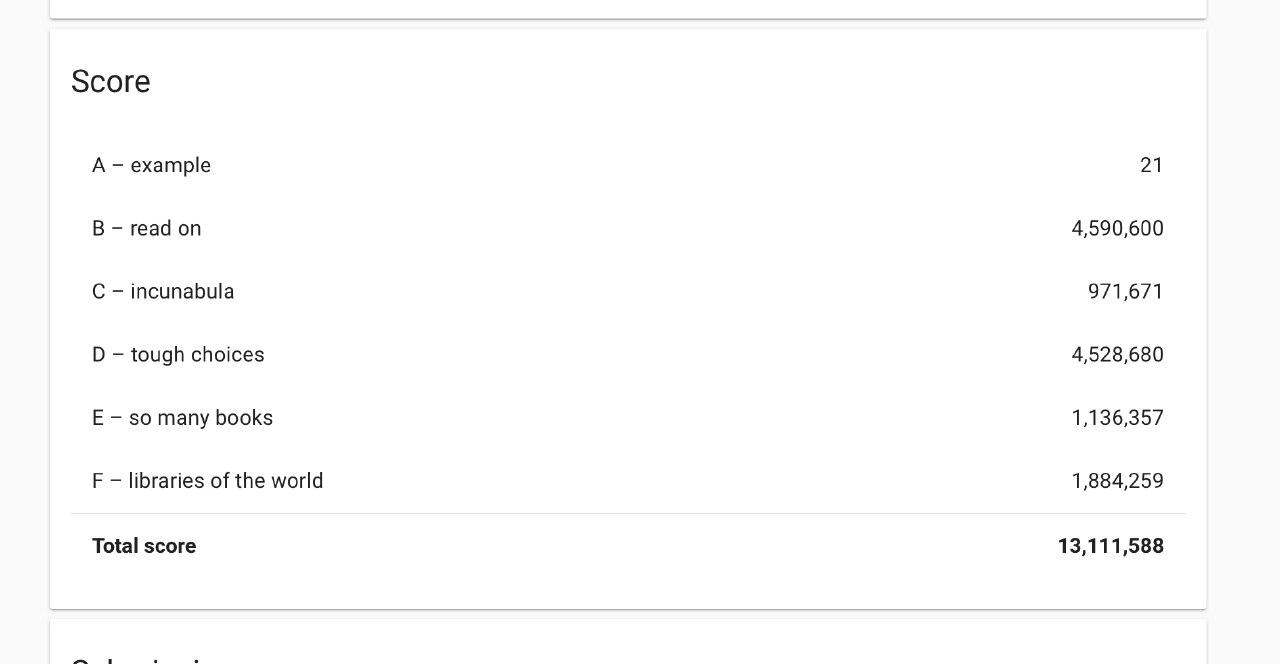
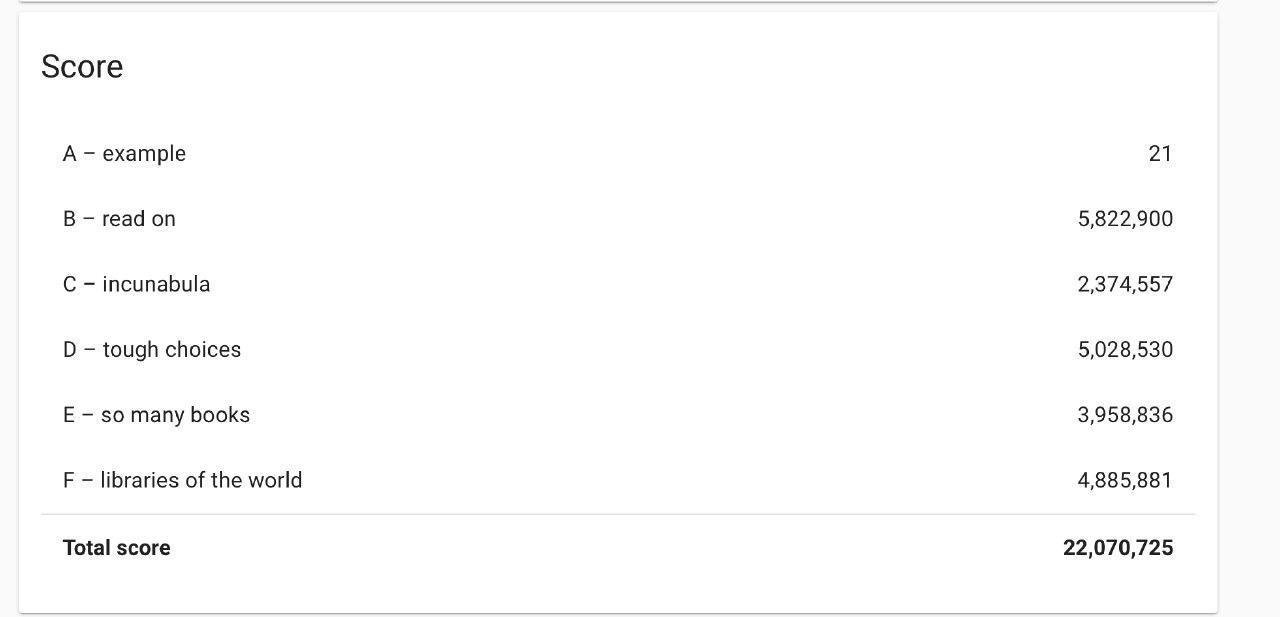
Second commit

diff --git a/main.py b/main.py
@@ -1,22 +1,15 @@
 def get_input(file):
     f = open(file, "r")
     lines = f.readlines()
-    numberOfBooks = int(lines[0].split()[0])
-    numberOfLibraries = int(lines[0].split()[1])
-    numberOfDays = int(lines[0].split()[2])
-    bookScores = list(map(int, lines[1].split()))
+    books_total = int(lines[0].split()[0])
+    libraries_total = int(lines[0].split()[1])
+    days_total = int(lines[0].split()[2])
+    scores_books = list(map(int, lines[1].split()))
 
-    inp_books = []
-    book_id = 0
-    for b in range(len(bookScores)):
-        bookk = {"book_id": book_id, "score": bookScores[b]}
-        inp_books.append(bookk)
-        book_id += 1
-
-    inp_libraries = []
+    inp_libraries = {}
     lib_id = 0
     for i in range(2, len(lines)):
-        if i % 2 == 0:  # it is a library description
+        if i % 2 == 0:  # even lines contain library description
             lib = {}
             line = lines[i].split()
             if len(line) == 0:
@@ -25,22 +18,13 @@ def get_input(file):
             lib["total_books"] = int(line[0])
             lib["signup_days"] = int(line[1])
             lib["per_day"] = int(line[2])
-            line = lines[i+1].split()
-            lib_books = []
-            for b in line:
-                bookk = {"book_id": int(b), "score": bookScores[int(b)]}
-                lib_books.append(bookk)
-            lib["books"] = lib_books
-            inp_libraries.append(lib)
+            lib["priority"] = 0.00
+            lib["books"] = lines[i+1].split()
+            lib["scanned_books"] = list()
+            inp_libraries[str(lib_id)] = lib
             lib_id += 1
     f.close()
-
-    inp_books = sorted(inp_books, key=lambda x: x["score"], reverse=True)
-    for l in range(len(inp_libraries)):
-        bs = sorted(inp_libraries[l]["books"], key=lambda x: x["score"], reverse=True)
-        inp_libraries[l]["books"] = bs
-
-    return numberOfBooks, numberOfLibraries, numberOfDays, inp_books, inp_libraries
+    return books_total, libraries_total, days_total, scores_books, inp_libraries
 
 
 def write_output(file):
@@ -48,50 +32,63 @@ def write_output(file):
     scanned_libraries = len(library_order)
     f.write(str(scanned_libraries) + "\n")
     for lib in library_order:
-        books_total = len(lib["scanned_books"])
-        f.write(str(lib["lib_id"]) + " " + str(books_total) + "\n")
+        f.write(str(lib["lib_id"]) + " " + str(len(lib["scanned_books"])) + "\n")
         for x in lib["scanned_books"]:
-            f.write(str(x["book_id"]) + " ")
+            f.write(str(x + " "))
         f.write("\n")
     f.close()
 
 
-def calculate_priority(lib):
-    s = 0
-    for book in lib["books"]:
-        if book not in scanned_books:  # unique books
-            s = s + book["score"]
-        lib["priority"] = s * (remaining_days - lib["signup_days"]) / lib["per_day"]
+def update_priorities(libs):
+    for k in libs:
+        s = 0
+        r = (remaining_days - libs[k]["signup_days"])* libs[k]["per_day"]
+        for book in libs[k]["books"]:
+            if book not in scanned_books:  # unique books
+                s = s + books_scores[int(book)]
+                r-=1
+            if (r==0):
+                break
+        if (remaining_days - libs[k]["signup_days"]>0):
+            libs[k]["priority"] = s *(remaining_days - libs[k]["signup_days"])
+
+def find_max_priority():
+    max_priority = 0
+    m=0
+    for k in libraries:
+        if libraries[k]["priority"] > max_priority:
+            max_priority = libraries[k]["priority"]
+            m = k
+    return m
 
 
-total_books, total_libraries, total_days, books, libraries = get_input("c_incunabula.txt")
+total_books, total_libraries, total_days, books_scores, libraries = get_input("/home/akzhol/Documents/hashcode2020/e_so_many_books.txt")
 library_order = []
-scanned_books = []
+scanned_books = set()  # just a set
 remaining_days = total_days
 
-while remaining_days > 0 and not len(libraries) == 0:
-    for library in libraries:
-        calculate_priority(library)
+for i in range(total_libraries):
+    libraries[str(i)]["books"].sort(key=lambda x: books_scores[int(x)], reverse=True)
 
-    max_priority_library = libraries[0]
-    max_priority_library_index = 0
-    for ind in range(len(libraries)):
-        if libraries[ind]["priority"] > max_priority_library["priority"]:
-            max_priority_library_index = ind
-    
-    remaining_days = remaining_days - libraries[max_priority_library_index]["signup_days"]
-    n = remaining_days * libraries[max_priority_library_index]["per_day"]
-    libraries[max_priority_library_index]["scanned_books"] = []
+while remaining_days > 0 and not len(libraries) == 0:
+    update_priorities(libraries)
+    max_index = str(find_max_priority())
+    remaining_days -= libraries[max_index]["signup_days"]
+    n = remaining_days * libraries[max_index]["per_day"]
     index = 0
-    while n > 0 and index < len(libraries[max_priority_library_index]["books"]):
-        book = libraries[max_priority_library_index]["books"][index]
+    empty = True
+    while n > 0 and index < len(libraries[max_index]["books"]):
+        book = libraries[max_index]["books"][index]
         if book not in scanned_books:
-            scanned_books.append(book)
-            libraries[max_priority_library_index]["scanned_books"].append(book)
+            scanned_books.add(book)
+            libraries[max_index]["scanned_books"].append(book)
+            empty = False
             n -= 1
         index += 1
-    library_order.append(libraries[max_priority_library_index].copy())
-    #print(libraries[max_priority_library_index]["lib_id"])
-    libraries.pop(max_priority_library_index)
+    if not empty:
+        library_order.append(libraries[max_index].copy())
+        #print(max_index)
+        #print("-", libraries[max_index]["signup_days"], "cap is ", libraries[max_index]["per_day"], "Remained ", remaining_days, " days")
+    libraries.pop(max_index)
 
-write_output("c_out.txt")
+write_output("/home/akzhol/Documents/hashcode2020/e_out.txt")
